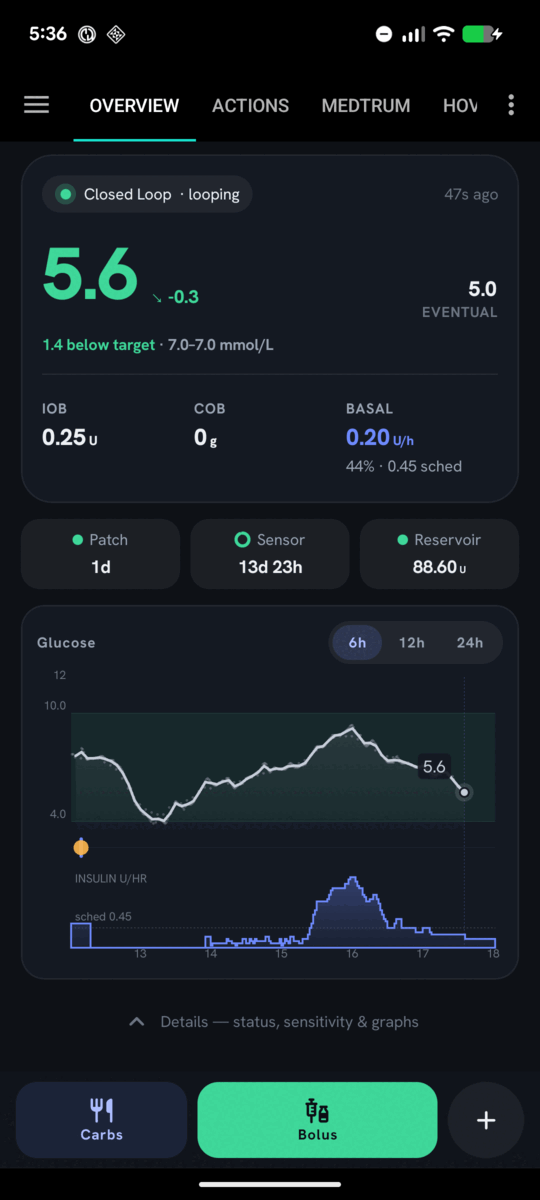
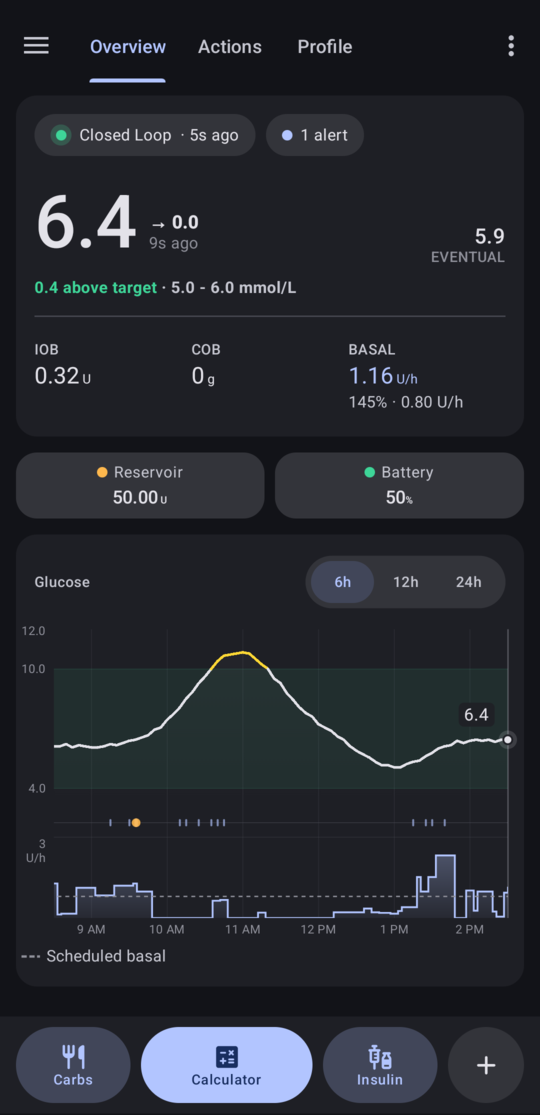
docs: add a build guide and app screenshots
There are no prebuilt APKs, so add a step-by-step guide to building and
installing the app with mise. README links to it and shows the redesigned
UI. Remove the stale, unreferenced screenshots and the YpsoPump README's
build section.

diff --git a/docs/building.md b/docs/building.md
@@ -1,0 +1,49 @@
+# Building the app
+
+There are no prebuilt APKs. You build the app on your computer and install it on your phone over USB.
+
+You need a computer running Linux, macOS or [WSL](https://learn.microsoft.com/windows/wsl/install) on Windows,
+a USB cable and a phone with Android 13 or newer.
+
+## Install
+
+1. This app replaces AndroidAPS. In AndroidAPS, export your settings, then uninstall it. Uninstalling deletes
+   its data from the phone.
+2. Install [Git](https://git-scm.com/downloads) and [mise](https://mise.jdx.dev/getting-started.html).
+3. Open a terminal and download the code:
+
+   ```bash
+   git clone https://github.com/Baz00k/AndroidAPS.git
+   cd AndroidAPS
+   ```
+
+4. Install the build tools and accept the [Android SDK terms](https://developer.android.com/studio/terms):
+
+   ```bash
+   mise trust
+   mise install
+   mise exec -- android sdk install platform-tools
+   ```
+
+5. On the phone, turn on [USB debugging](https://developer.android.com/studio/debug/dev-options#enable).
+   Connect the phone to the computer and allow debugging when the phone asks.
+6. Build and install the app. The first build takes a while.
+
+   ```bash
+   mise run install
+   ```
+
+7. Open the app and set it up as described in the [AndroidAPS documentation](https://wiki.aaps.app/en/latest/).
+
+## Update
+
+Connect the phone and run:
+
+```bash
+cd AndroidAPS
+git pull
+mise run install
+```
+
+Build updates on the same computer. Android installs an update only if it was built with the same key as the
+installed app.

diff --git a/README.md b/README.md
@@ -9,6 +9,12 @@
 This is a fork of [AndroidAPS](https://github.com/nightscout/AndroidAPS) with a redesigned native Android
 UI and YpsoPump support.
 
+<p align="center">
+  <img src="docs/screenshots/home.png" width="250" alt="Home screen with glucose, insulin on board, basal and a six-hour glucose graph">
+  <img src="docs/screenshots/calculator.png" width="250" alt="Calculator with carbs, dose adjustment and the included terms of the suggested dose">
+  <img src="docs/screenshots/actions.png" width="250" alt="Actions screen with therapy actions, event logging and history">
+</p>
+
 ## What this fork changes
 
 - [YpsoPump](pump/ypsopump/README.md): a pump driver with status, event history, boluses and temporary
@@ -38,12 +44,9 @@ see the [AndroidAPS documentation](https://wiki.aaps.app/en/latest/) and the
 [upstream repository](https://github.com/nightscout/AndroidAPS). The upstream documentation describes
 upstream behavior, so it may not match the changes listed above.
 
-## Build
+## Install
 
-```bash
-./gradlew :app:assembleFullLoop   # non-debuggable/AOT-eligible
-./gradlew :app:assembleFullDebug  # debuggable development build
-```
+See [Building the app](docs/building.md).
 
 ## Project status
 

diff --git a/pump/ypsopump/README.md b/pump/ypsopump/README.md
@@ -9,11 +9,4 @@ The YpsoPump plugin connects AndroidAPS to a bonded pump using an existing encry
 - [Pump protocol](docs/protocol.md): BLE authentication, encrypted messages, counters, settings and status fields.
 - [Event history](docs/history.md): row format, identity, pump-local time and ingestion.
 
-## Build
-
-```bash
-./gradlew :app:assembleFullLoop
-./gradlew :app:assembleFullDebug
-```
-
 The protocol implementation builds on [SandraK82/ypsopump-research](https://github.com/SandraK82/ypsopump-research) and [vicktor/ypsomed-pump](https://github.com/vicktor/ypsomed-pump). The research repository describes additional pump behavior; these pages describe only what this driver implements. This project is not affiliated with or endorsed by Ypsomed, AndroidAPS or the Nightscout Foundation. License: AGPL-3.0.
